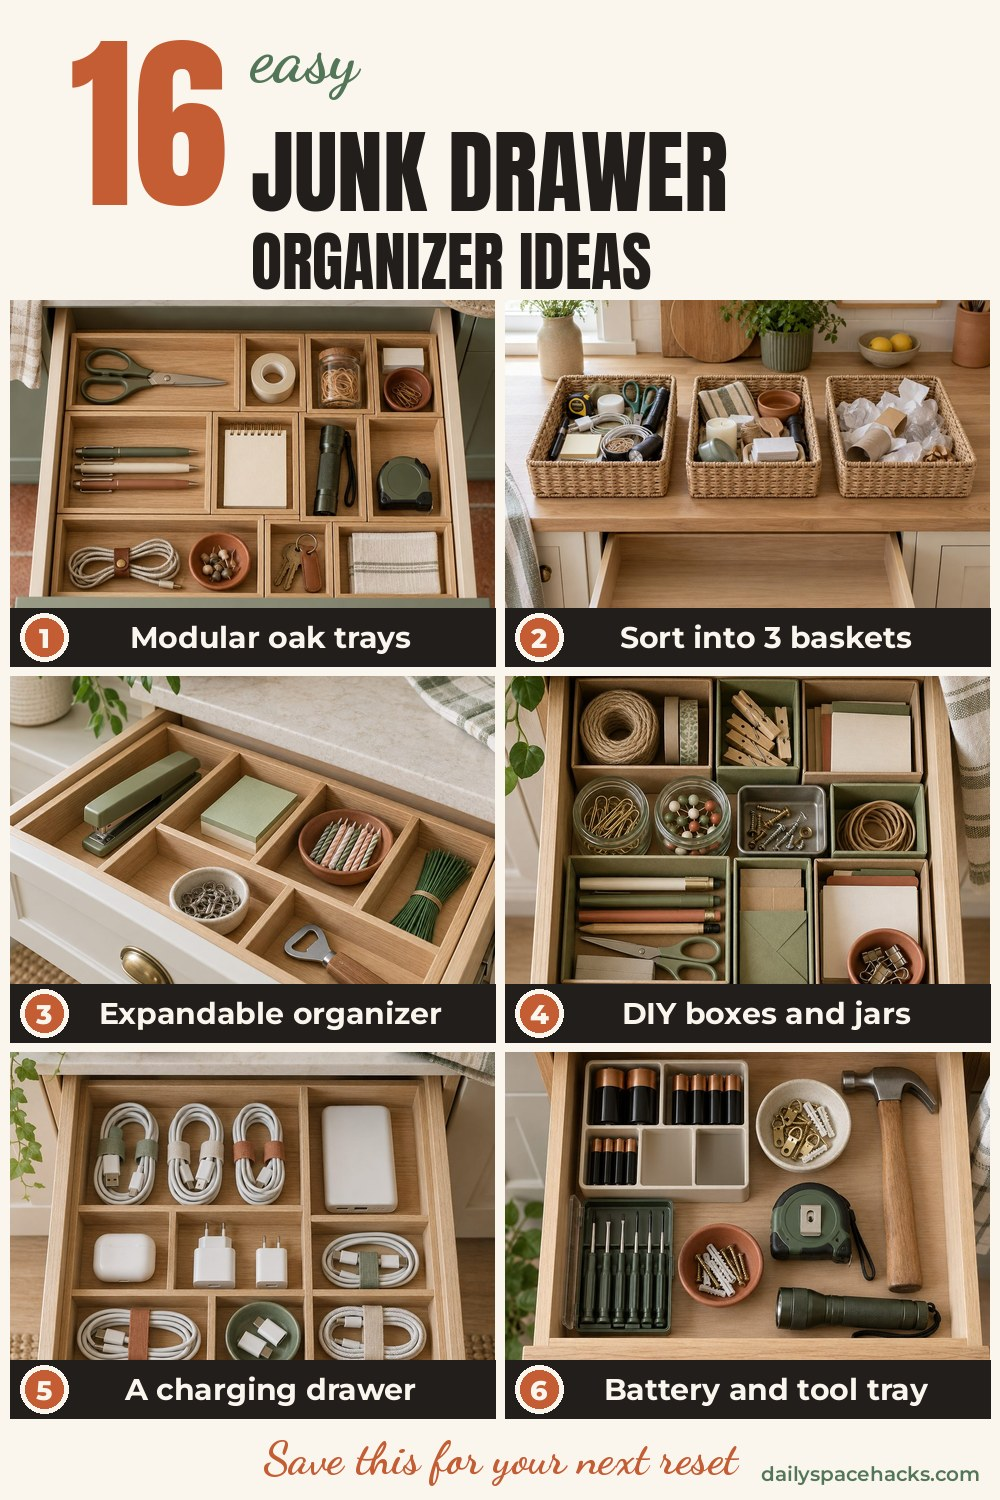
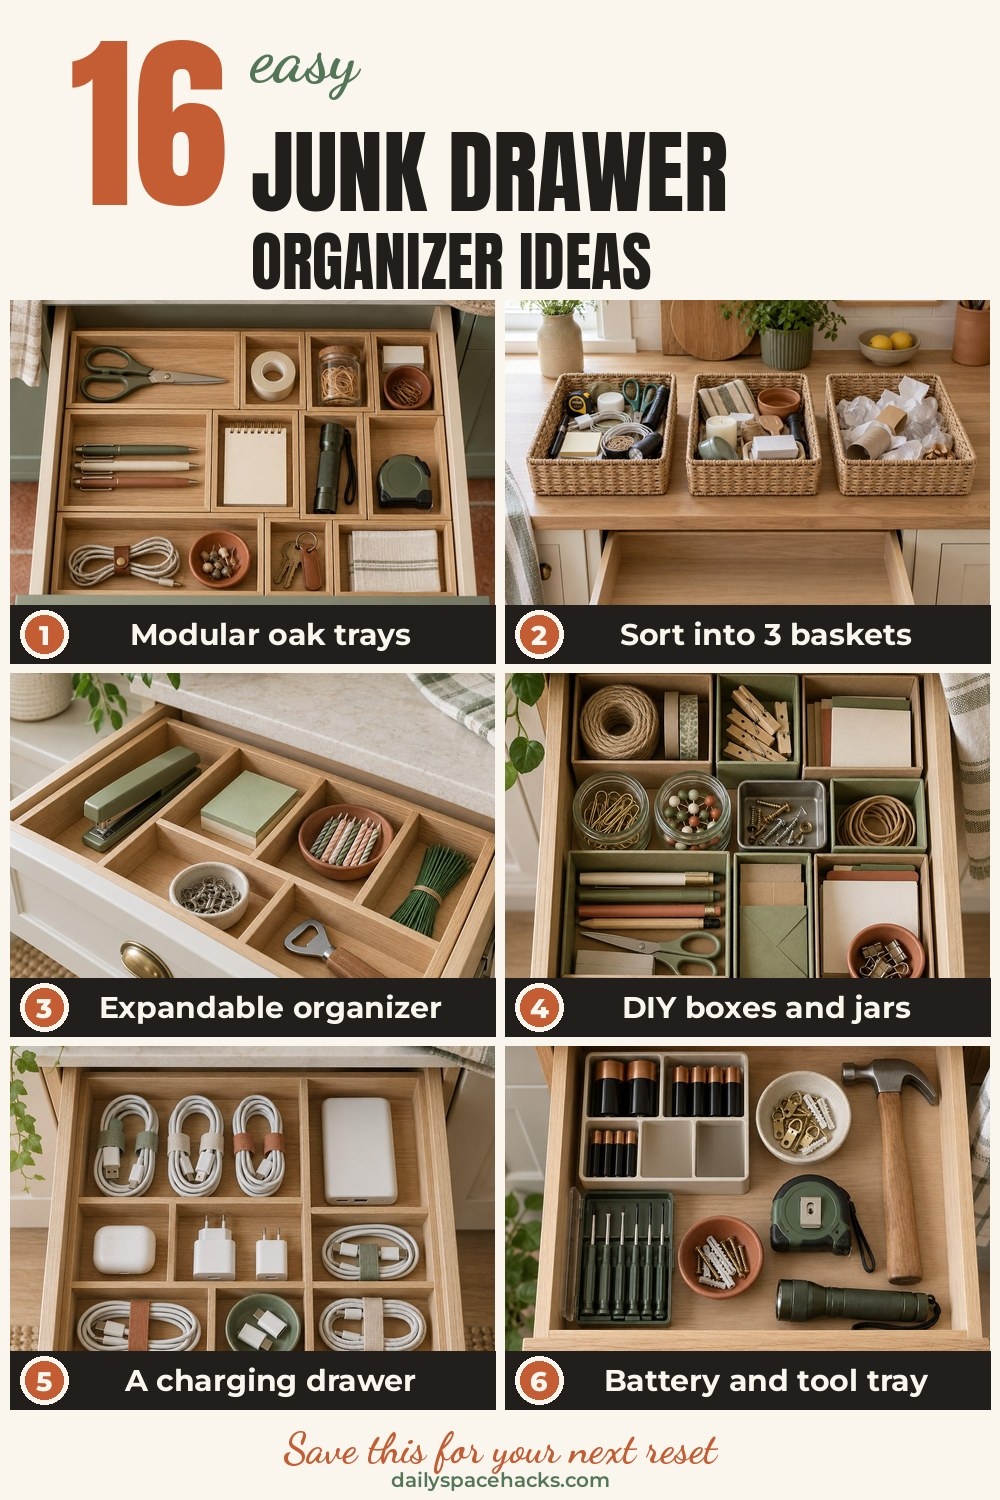
CSV-25: 9 pins in new templates (map, grid, bold)
Claude-Session: https://claude.ai/code/session_0138odqKUhfz3xTX162PXp5o

diff --git a/pinh2.py b/pinh2.py
@@ -54,15 +54,15 @@ def pin_grid(imgs,num,script_word,title1,title2,labels,out,footer="Save this for
     d.text((nx,52),script_word,font=script(70),fill=SAGE,anchor="lt")
     f1=fitf(d,title1,anton,W-nx-50,92); d.text((nx,132),title1,font=f1,fill=INK,anchor="lt")
     f2=fitf(d,title2,anton,W-nx-50,64); d.text((nx,132+f1.size+8),title2,font=f2,fill=INK,anchor="lt")
-    top=300; g=10; tw=(W-3*g)//2; th=(H-top-80-2*g)//3
+    top=300; g=10; tw=(W-3*g)//2; th=(H-top-90-2*g)//3
     for i,src in enumerate(imgs[:6]):
         x=g+(i%2)*(tw+g); y=top+(i//2)*(th+g)
         c.paste(cover(Image.open(src).convert("RGB"),tw,th),(x,y))
         d.rectangle([x,y+th-58,x+tw,y+th],fill=(33,30,28))
         d.text((x+tw/2+18,y+th-29),labels[i],font=fitf(d,labels[i],lambda s:mont(s,700),tw-90,30),fill=CREAM,anchor="mm")
         badge(d,x+34,y+th-29,i+1,r=24)
-    d.text((W/2,H-42),footer,font=script(46),fill=TERRA,anchor="mm")
-    d.text((W-20,H-14),"dailyspacehacks.com",font=mont(20,600),fill=SAGE,anchor="rb")
+    d.text((W/2,H-52),footer,font=script(42),fill=TERRA,anchor="mm")
+    d.text((W/2,H-8),"dailyspacehacks.com",font=mont(20,600),fill=SAGE,anchor="mb")
     c.save(out,"JPEG",quality=88,optimize=True,progressive=True)
 
 def pin_bold(photo,num_line,title2,tag,sticker,out,ay=0.6):
